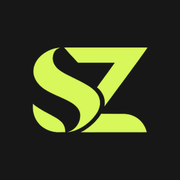
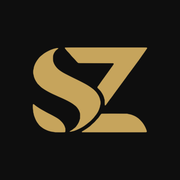
Site Szadura: aplica a versão da placa (SZ dourado, Szadura. em lima)
- Logo oficial em PNG no topo e no rodapé (Szadura. lima com ponto dourado)
- Favicon, ícone do iPhone e og.jpg com o SZ dourado sobre preto #0E0E0E
- Preto de fundo ajustado para #0E0E0E, igual à ficha técnica da placa

Claude-Session: https://claude.ai/code/session_01Cdq3fSNYREmrjehrD99Ar7

Changed region(s): [[0.1667, 0.25, 0.8333, 0.75]]

diff --git a/site/assets/css/style.css b/site/assets/css/style.css
@@ -1,7 +1,7 @@
 /* Szadura · Links e páginas de serviço
    Verde lima é a cor principal, dourado nos detalhes, fundo preto. */
 :root{
-  --bg-1:#171717; --bg-2:#0B0B0B;
+  --bg-1:#161616; --bg-2:#0E0E0E;
   --gold:#D7F75B; --gold-light:#E4FA8C;
   --blue:#C6A45C; --blue-light:#D9BE80;
   --text:#F5F5EF; --muted:#A9A9A2;
@@ -40,7 +40,7 @@ p{margin:0}
   transition:transform .2s ease,box-shadow .2s ease,background .2s ease}
 .btn:hover{transform:translateY(-2px)}
 .btn svg{width:19px;height:19px;flex:none}
-.btn-gold{background:linear-gradient(135deg,var(--gold-light),var(--gold));color:#0B0B0B;box-shadow:0 10px 30px -12px rgba(215,247,91,.6)}
+.btn-gold{background:linear-gradient(135deg,var(--gold-light),var(--gold));color:#0E0E0E;box-shadow:0 10px 30px -12px rgba(215,247,91,.6)}
 .btn-outline{border-color:var(--gold);color:var(--gold-light);background:transparent}
 .btn-outline:hover{background:rgba(215,247,91,.08)}
 .btn-wa{background:var(--whatsapp);color:#062b14}
@@ -68,7 +68,7 @@ p{margin:0}
 .lcard .photo{position:absolute;inset:0 0 0 auto;width:55%;z-index:-2;background:linear-gradient(160deg,rgba(var(--c-rgb),.45),var(--bg-2))}
 .lcard .photo img{width:100%;height:100%;object-fit:cover;object-position:50% 15%}
 .lcard::before{content:"";position:absolute;inset:0;z-index:-1;
-  background:linear-gradient(90deg,var(--bg-2) 0%,var(--bg-2) 42%,rgba(11,11,11,.75) 58%,rgba(11,11,11,0) 85%)}
+  background:linear-gradient(90deg,var(--bg-2) 0%,var(--bg-2) 42%,rgba(14,14,14,.75) 58%,rgba(14,14,14,0) 85%)}
 .lcard::after{content:"";position:absolute;left:-60px;bottom:-80px;width:260px;height:220px;z-index:-1;border-radius:50%;
   background:radial-gradient(closest-side,rgba(var(--c-rgb),.38),transparent);transition:opacity .25s ease,transform .25s ease;opacity:.75}
 .lcard:hover{transform:translateY(-3px);border-color:var(--gold-light);box-shadow:0 18px 40px -22px rgba(var(--c-rgb),.7)}
@@ -77,22 +77,23 @@ p{margin:0}
 .tag{display:inline-block;font-size:11px;font-weight:600;letter-spacing:.14em;text-transform:uppercase;color:var(--c,var(--gold-light));
   border:1px solid currentColor;border-radius:999px;padding:4px 11px}
 .lcard h2{font-family:var(--f-card);font-weight:800;font-size:clamp(19px,5.4vw,26px);line-height:1.12;color:#fff}
-.pill{display:inline-flex;align-items:center;gap:8px;font-size:13.5px;font-weight:600;padding:9px 16px;border-radius:999px;background:var(--c);color:#0B0B0B}
+.pill{display:inline-flex;align-items:center;gap:8px;font-size:13.5px;font-weight:600;padding:9px 16px;border-radius:999px;background:var(--c);color:#0E0E0E}
 .lcard.long h2{font-size:clamp(16px,4.4vw,20px)}
 .lcard.c-gold{--c:var(--gold);--c-rgb:215,247,91}
 .lcard.c-blue{--c:var(--blue-light);--c-rgb:198,164,92}
-.lcard.c-blue .pill{color:#0B0B0B}
+.lcard.c-blue .pill{color:#0E0E0E}
 .lcard.c-goldlt{--c:var(--gold-light);--c-rgb:228,250,140}
 .lcard.c-wa{--c:var(--whatsapp);--c-rgb:37,211,102}
 .links .btn-outline{margin-top:20px}
 
 /* ---------- páginas internas ---------- */
-.topbar{position:sticky;top:0;z-index:30;background:rgba(11,11,11,.82);backdrop-filter:blur(10px);border-bottom:1px solid var(--card-border);padding-top:env(safe-area-inset-top,0px)}
+.topbar{position:sticky;top:0;z-index:30;background:rgba(14,14,14,.82);backdrop-filter:blur(10px);border-bottom:1px solid var(--card-border);padding-top:env(safe-area-inset-top,0px)}
 .topbar .row{display:flex;align-items:center;justify-content:space-between;gap:12px;height:60px}
 .back{display:inline-flex;align-items:center;gap:8px;font-size:14px;color:var(--gold-light);text-decoration:none}
 .back:hover{color:var(--text)}
-.logo-word{font-family:var(--f-display);font-weight:800;font-size:26px;line-height:1;letter-spacing:-.02em;color:var(--text);text-decoration:none}
-.logo-word .dot,.footer .brand .dot{color:var(--blue)}
+.logo-word{display:inline-flex;align-items:center}
+.logo-word img{height:26px;width:auto}
+.footer .brand img{height:34px;width:auto;margin-inline:auto}
 
 section{padding-block:clamp(56px,8vw,96px)}
 .eyebrow{display:inline-flex;align-items:center;gap:10px;font-size:12px;font-weight:600;letter-spacing:.18em;text-transform:uppercase;color:var(--gold-light)}
@@ -142,7 +143,7 @@ section{padding-block:clamp(56px,8vw,96px)}
 .timeline::before{content:"";position:absolute;left:23px;top:10px;bottom:10px;width:2px;background:linear-gradient(var(--gold),var(--blue-light))}
 .timeline li{position:relative;display:grid;grid-template-columns:48px 1fr;gap:18px;align-items:start}
 .timeline li::before{counter-increment:t;content:counter(t);width:48px;height:48px;border-radius:50%;display:grid;place-items:center;
-  font-family:var(--f-display);font-weight:700;font-size:20px;color:#0B0B0B;background:linear-gradient(135deg,var(--gold-light),var(--gold));
+  font-family:var(--f-display);font-weight:700;font-size:20px;color:#0E0E0E;background:linear-gradient(135deg,var(--gold-light),var(--gold));
   box-shadow:0 0 0 6px var(--bg-1),0 0 0 7px var(--card-border);position:relative;z-index:1}
 .timeline .tl{background:var(--surface);border:1px solid var(--card-border);border-radius:14px;padding:16px 20px;transition:border-color .2s ease,background .2s ease}
 .timeline li:hover .tl{border-color:var(--gold);background:var(--surface-2)}
@@ -159,7 +160,7 @@ section{padding-block:clamp(56px,8vw,96px)}
 .plan li::before{content:"";position:absolute;left:3px;top:4px;width:6px;height:11px;border-right:2px solid var(--gold-light);border-bottom:2px solid var(--gold-light);transform:rotate(45deg)}
 .plan li.all{color:var(--gold-light);font-weight:600}
 .plan.star{border:1.5px solid var(--gold);background:linear-gradient(180deg,rgba(215,247,91,.12),rgba(215,247,91,.02));box-shadow:0 30px 60px -36px rgba(215,247,91,.6)}
-.badge{position:absolute;top:-13px;left:50%;transform:translateX(-50%);white-space:nowrap;font-size:12px;font-weight:600;padding:5px 14px;border-radius:999px;background:linear-gradient(135deg,var(--gold-light),var(--gold));color:#0B0B0B}
+.badge{position:absolute;top:-13px;left:50%;transform:translateX(-50%);white-space:nowrap;font-size:12px;font-weight:600;padding:5px 14px;border-radius:999px;background:linear-gradient(135deg,var(--gold-light),var(--gold));color:#0E0E0E}
 .note{margin-top:18px;font-size:14px;color:var(--muted)}
 @media (max-width:900px){.plans{grid-template-columns:1fr;max-width:480px;margin-inline:auto}.plan.star{margin-block:8px}}
 
@@ -206,7 +207,7 @@ section{padding-block:clamp(56px,8vw,96px)}
 
 /* rodapé */
 .footer{border-top:1px solid var(--card-border);padding-block:32px 40px;margin-top:24px;text-align:center;color:var(--muted);font-size:13.5px}
-.footer .brand{font-family:var(--f-display);font-size:28px;color:var(--text);font-weight:800;letter-spacing:-.02em}
+.footer .brand{display:flex;justify-content:center}
 .footer p{margin-top:8px}
 .footer .contacts{display:flex;flex-wrap:wrap;justify-content:center;gap:6px 16px;margin-top:10px}
 .footer a{text-decoration:none}.footer a:hover{color:var(--text)}
@@ -250,10 +251,10 @@ body>*:not(.glow):not(.wa-float):not(dialog):not(.topbar){position:relative;z-in
 .rcard p{font-size:14px;color:var(--muted)}
 .rshot{margin-top:auto;display:block;padding:0;border:1px solid var(--card-border);border-radius:10px;overflow:hidden;background:#fff;cursor:zoom-in;position:relative;font:inherit}
 .rshot img{width:100%;height:auto}
-.rshot span{position:absolute;right:8px;bottom:8px;font-size:11px;font-weight:600;color:#0B0B0B;background:var(--gold-light);border-radius:999px;padding:3px 9px}
+.rshot span{position:absolute;right:8px;bottom:8px;font-size:11px;font-weight:600;color:#0E0E0E;background:var(--gold-light);border-radius:999px;padding:3px 9px}
 .rnote{font-size:12.5px;color:var(--muted);margin-top:4px}
 dialog.zoom{max-width:min(96vw,1000px);width:auto;padding:0;border:1px solid var(--gold);border-radius:14px;background:#fff;overflow:visible}
-dialog.zoom::backdrop{background:rgba(11,11,11,.85)}
+dialog.zoom::backdrop{background:rgba(14,14,14,.85)}
 dialog.zoom img{display:block;max-width:100%;max-height:85vh;width:auto;border-radius:14px}
 .zclose{position:absolute;top:-16px;right:-12px;width:36px;height:36px;border-radius:50%;border:1px solid var(--gold);background:var(--bg-1);color:var(--text);font-size:22px;line-height:1;cursor:pointer}
 

diff --git a/site/assessoria-de-marketing/index.html b/site/assessoria-de-marketing/index.html
@@ -16,7 +16,7 @@
 <meta property="og:url" content="https://josaniaszadura.com.br/assessoria-de-marketing/">
 <meta property="og:image" content="https://josaniaszadura.com.br/assets/img/og.jpg">
 <meta name="twitter:card" content="summary_large_image">
-<meta name="theme-color" content="#0B0B0B">
+<meta name="theme-color" content="#0E0E0E">
 <link rel="icon" type="image/png" href="../assets/img/favicon.png">
 <link rel="apple-touch-icon" href="../assets/img/apple-touch-icon.png">
 <link rel="preconnect" href="https://fonts.googleapis.com">
@@ -33,7 +33,7 @@
 <header class="topbar">
   <div class="wrap row">
     <a class='back' href='/'><span aria-hidden="true">←</span> Voltar aos links</a>
-    <span class="logo-word" aria-label="Szadura">Szadura<span class="dot">.</span></span>
+    <span class="logo-word"><img src="../assets/img/logo-szadura.png" alt="Szadura" width="561" height="140"></span>
   </div>
 </header>
 <main>
@@ -104,7 +104,7 @@
 </main>
 <footer class="footer">
   <div class="wrap">
-    <div class="brand">Szadura<span class="dot">.</span></div>
+    <div class="brand"><img src="../assets/img/logo-szadura.png" alt="Szadura" loading="lazy" width="561" height="140"></div>
     <p>Josânia F. Szadura · CNPJ 60.305.375/0001-91 · Foz do Iguaçu – PR</p>
     <div class="contacts">
       <a href="#" data-whats="Olá, Josânia! Vim pelo site e quero falar com a Szadura.">WhatsApp (45) 99940-7123</a>

diff --git a/site/google-meu-negocio/index.html b/site/google-meu-negocio/index.html
@@ -16,7 +16,7 @@
 <meta property="og:url" content="https://josaniaszadura.com.br/google-meu-negocio/">
 <meta property="og:image" content="https://josaniaszadura.com.br/assets/img/og.jpg">
 <meta name="twitter:card" content="summary_large_image">
-<meta name="theme-color" content="#0B0B0B">
+<meta name="theme-color" content="#0E0E0E">
 <link rel="icon" type="image/png" href="../assets/img/favicon.png">
 <link rel="apple-touch-icon" href="../assets/img/apple-touch-icon.png">
 <link rel="preconnect" href="https://fonts.googleapis.com">
@@ -33,7 +33,7 @@
 <header class="topbar">
   <div class="wrap row">
     <a class='back' href='/'><span aria-hidden="true">←</span> Voltar aos links</a>
-    <span class="logo-word" aria-label="Szadura">Szadura<span class="dot">.</span></span>
+    <span class="logo-word"><img src="../assets/img/logo-szadura.png" alt="Szadura" width="561" height="140"></span>
   </div>
 </header>
 <main>
@@ -121,7 +121,7 @@
 </main>
 <footer class="footer">
   <div class="wrap">
-    <div class="brand">Szadura<span class="dot">.</span></div>
+    <div class="brand"><img src="../assets/img/logo-szadura.png" alt="Szadura" loading="lazy" width="561" height="140"></div>
     <p>Josânia F. Szadura · CNPJ 60.305.375/0001-91 · Foz do Iguaçu – PR</p>
     <div class="contacts">
       <a href="#" data-whats="Olá, Josânia! Vim pelo site e quero falar com a Szadura.">WhatsApp (45) 99940-7123</a>

diff --git a/site/trafego-pago/index.html b/site/trafego-pago/index.html
@@ -16,7 +16,7 @@
 <meta property="og:url" content="https://josaniaszadura.com.br/trafego-pago/">
 <meta property="og:image" content="https://josaniaszadura.com.br/assets/img/og.jpg">
 <meta name="twitter:card" content="summary_large_image">
-<meta name="theme-color" content="#0B0B0B">
+<meta name="theme-color" content="#0E0E0E">
 <link rel="icon" type="image/png" href="../assets/img/favicon.png">
 <link rel="apple-touch-icon" href="../assets/img/apple-touch-icon.png">
 <link rel="preconnect" href="https://fonts.googleapis.com">
@@ -33,7 +33,7 @@
 <header class="topbar">
   <div class="wrap row">
     <a class='back' href='/'><span aria-hidden="true">←</span> Voltar aos links</a>
-    <span class="logo-word" aria-label="Szadura">Szadura<span class="dot">.</span></span>
+    <span class="logo-word"><img src="../assets/img/logo-szadura.png" alt="Szadura" width="561" height="140"></span>
   </div>
 </header>
 <main>
@@ -187,7 +187,7 @@
 </main>
 <footer class="footer">
   <div class="wrap">
-    <div class="brand">Szadura<span class="dot">.</span></div>
+    <div class="brand"><img src="../assets/img/logo-szadura.png" alt="Szadura" loading="lazy" width="561" height="140"></div>
     <p>Josânia F. Szadura · CNPJ 60.305.375/0001-91 · Foz do Iguaçu – PR</p>
     <div class="contacts">
       <a href="#" data-whats="Olá, Josânia! Vim pelo site e quero falar com a Szadura.">WhatsApp (45) 99940-7123</a>

diff --git a/site/diagnostico/index.html b/site/diagnostico/index.html
@@ -16,7 +16,7 @@
 <meta property="og:url" content="https://josaniaszadura.com.br/diagnostico/">
 <meta property="og:image" content="https://josaniaszadura.com.br/assets/img/og.jpg">
 <meta name="twitter:card" content="summary_large_image">
-<meta name="theme-color" content="#0B0B0B">
+<meta name="theme-color" content="#0E0E0E">
 <link rel="icon" type="image/png" href="../assets/img/favicon.png">
 <link rel="apple-touch-icon" href="../assets/img/apple-touch-icon.png">
 <link rel="preconnect" href="https://fonts.googleapis.com">
@@ -33,7 +33,7 @@
 <header class="topbar">
   <div class="wrap row">
     <a class='back' href='/'><span aria-hidden="true">←</span> Voltar aos links</a>
-    <span class="logo-word" aria-label="Szadura">Szadura<span class="dot">.</span></span>
+    <span class="logo-word"><img src="../assets/img/logo-szadura.png" alt="Szadura" width="561" height="140"></span>
   </div>
 </header>
 <main>
@@ -118,7 +118,7 @@
 </main>
 <footer class="footer">
   <div class="wrap">
-    <div class="brand">Szadura<span class="dot">.</span></div>
+    <div class="brand"><img src="../assets/img/logo-szadura.png" alt="Szadura" loading="lazy" width="561" height="140"></div>
     <p>Josânia F. Szadura · CNPJ 60.305.375/0001-91 · Foz do Iguaçu – PR</p>
     <div class="contacts">
       <a href="#" data-whats="Olá, Josânia! Vim pelo site e quero falar com a Szadura.">WhatsApp (45) 99940-7123</a>

diff --git a/site/index.html b/site/index.html
@@ -16,7 +16,7 @@
 <meta property="og:url" content="https://josaniaszadura.com.br/">
 <meta property="og:image" content="https://josaniaszadura.com.br/assets/img/og.jpg">
 <meta name="twitter:card" content="summary_large_image">
-<meta name="theme-color" content="#0B0B0B">
+<meta name="theme-color" content="#0E0E0E">
 <link rel="icon" type="image/png" href="assets/img/favicon.png">
 <link rel="apple-touch-icon" href="assets/img/apple-touch-icon.png">
 <link rel="preconnect" href="https://fonts.googleapis.com">
@@ -117,7 +117,7 @@
 </main>
 <footer class="footer">
   <div class="wrap">
-    <div class="brand">Szadura<span class="dot">.</span></div>
+    <div class="brand"><img src="assets/img/logo-szadura.png" alt="Szadura" loading="lazy" width="561" height="140"></div>
     <p>Josânia F. Szadura · CNPJ 60.305.375/0001-91 · Foz do Iguaçu – PR</p>
     <div class="contacts">
       <a href="#" data-whats="Olá, Josânia! Vim pelo site e quero falar com a Szadura.">WhatsApp (45) 99940-7123</a>
